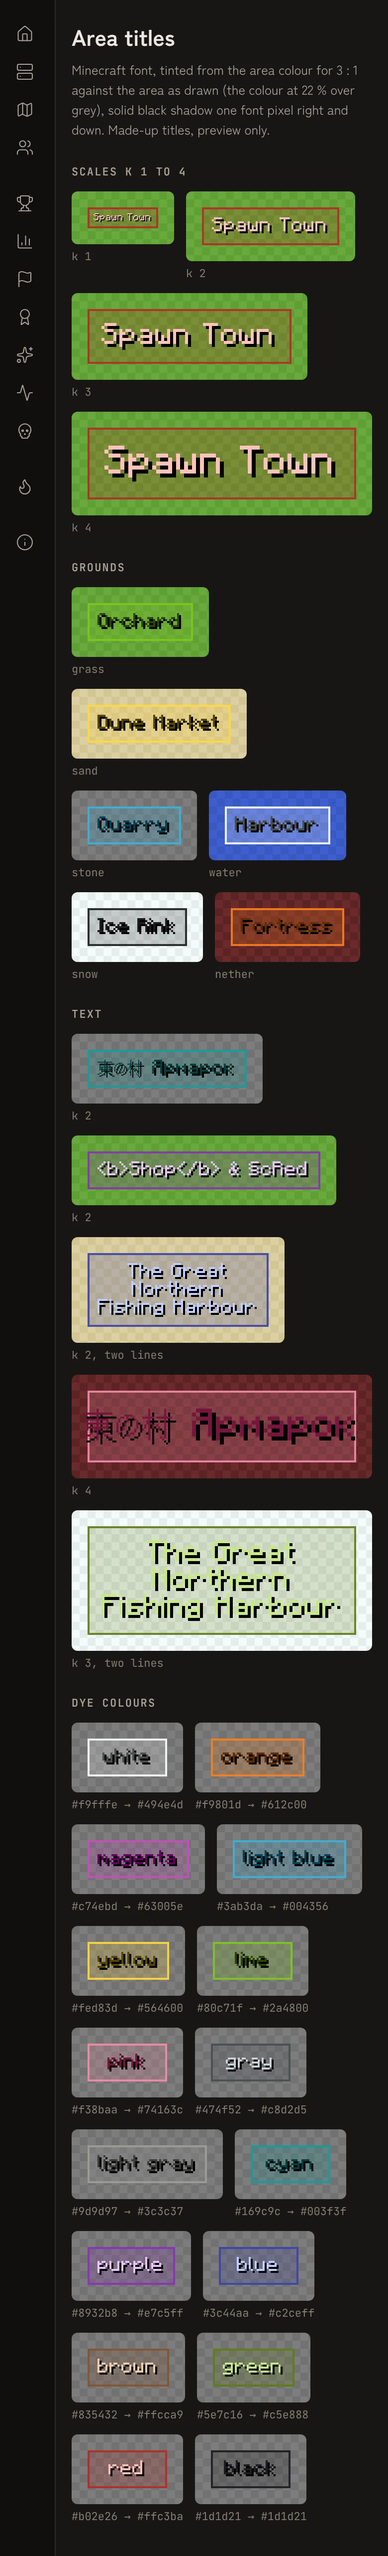
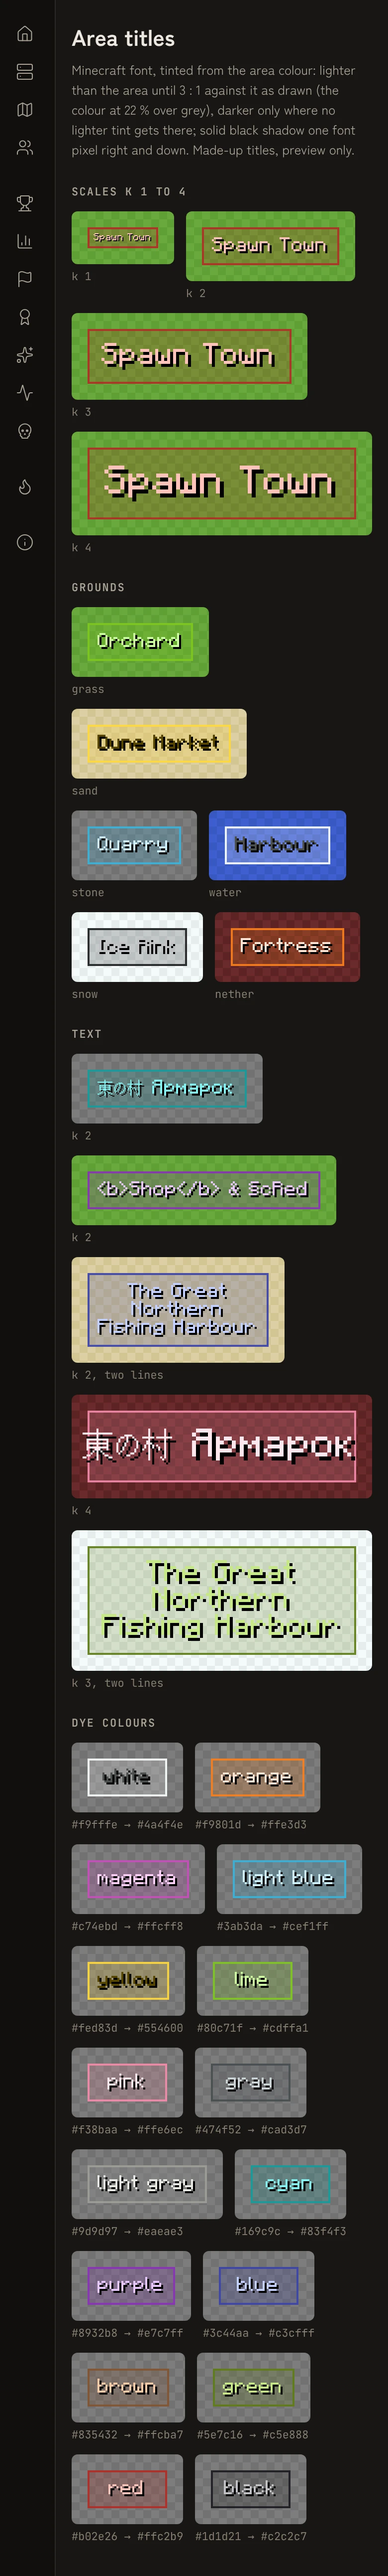
FMK-1: label tint searches lighter first for every colour
Lighter than the area as drawn first; darker only when no lighter tint
reaches 3 : 1 (markers coordinator's review). Table tests, preview caption
and screenshots updated.

Claude-Session: https://claude.ai/code/session_01VkbqotGbnmKFi6ryquUBuy

Changed region(s): [[0.1846, 0.0312, 0.9538, 0.9672], [0.0308, 0.0936, 0.0923, 0.156], [0.0308, 0.1872, 0.0923, 0.2184]]

diff --git a/tests/map-labels.test.ts b/tests/map-labels.test.ts
@@ -8,28 +8,28 @@ import { textWidth } from "#lib/onesoul/book/layout.ts";
 
 // [name, area colour, title colour]; the 16 dyes are Minecraft's dye diffuse colours (cakeutils MAPD-49)
 const TABLE: [string, string, string][] = [
-  ["pure_red", "#ff0000", "#5c0000"],
-  ["navy", "#000080", "#9bbcff"],
+  ["pure_red", "#ff0000", "#ffbeb3"],
+  ["navy", "#000080", "#9cbdff"],
   ["pure_yellow", "#ffff00", "#4f4f00"],
   ["pure_white", "#ffffff", "#4e4e4e"],
-  ["pure_black", "#000000", "#0b0b0b"],
+  ["pure_black", "#000000", "#bababa"],
   ["mid_grey", "#808080", "#e1e1e1"],
-  ["white", "#f9fffe", "#494e4d"],
-  ["orange", "#f9801d", "#612c00"],
-  ["magenta", "#c74ebd", "#63005e"],
-  ["light_blue", "#3ab3da", "#004356"],
-  ["yellow", "#fed83d", "#564600"],
-  ["lime", "#80c71f", "#2a4800"],
-  ["pink", "#f38baa", "#74163c"],
-  ["gray", "#474f52", "#c8d2d5"],
-  ["light_gray", "#9d9d97", "#3c3c37"],
-  ["cyan", "#169c9c", "#003f3f"],
-  ["purple", "#8932b8", "#e7c5ff"],
-  ["blue", "#3c44aa", "#c2ceff"],
-  ["brown", "#835432", "#ffcca9"],
+  ["white", "#f9fffe", "#4a4f4e"],
+  ["orange", "#f9801d", "#ffe3d3"],
+  ["magenta", "#c74ebd", "#ffcff8"],
+  ["light_blue", "#3ab3da", "#cef1ff"],
+  ["yellow", "#fed83d", "#554600"],
+  ["lime", "#80c71f", "#cdffa1"],
+  ["pink", "#f38baa", "#ffe6ec"],
+  ["gray", "#474f52", "#cad3d7"],
+  ["light_gray", "#9d9d97", "#eaeae3"],
+  ["cyan", "#169c9c", "#83f4f3"],
+  ["purple", "#8932b8", "#e7c7ff"],
+  ["blue", "#3c44aa", "#c3cfff"],
+  ["brown", "#835432", "#ffcba7"],
   ["green", "#5e7c16", "#c5e888"],
-  ["red", "#b02e26", "#ffc3ba"],
-  ["black", "#1d1d21", "#1d1d21"],
+  ["red", "#b02e26", "#ffc2b9"],
+  ["black", "#1d1d21", "#c2c2c7"],
 ];
 
 describe("labelTint (§5.3)", () => {
@@ -56,9 +56,16 @@ describe("labelTint (§5.3)", () => {
       expect(d).toBeLessThan(0.12);
     }
   });
-  test("dark colours lighten first, light ones darken first", () => {
-    expect(toOklch(parseHex(labelTint("#000080").color)!).l).toBeGreaterThan(toOklch([0, 0, 128]).l);
-    expect(toOklch(parseHex(labelTint("#fed83d").color)!).l).toBeLessThan(toOklch(parseHex("#fed83d")!).l);
+  test("lighter first for every colour, lighter than the area as drawn; darker only when that cannot reach the target", () => {
+    for (const area of ["#000080", "#fed83d", "#f38baa", "#1d1d21", "#80c71f", "#3ab3da"]) {
+      const t = labelTint(area);
+      const lighter = toOklch(parseHex(t.color)!).l > toOklch(parseHex(t.ground)!).l;
+      // darker only for yellow, whose ground no lighter title can reach 3 : 1 on
+      expect(lighter).toBe(area !== "#fed83d");
+    }
+    const y = parseHex("#fed83d")!;
+    const top = fromOklch({ ...toOklch(y), l: L_MAX }).map(Math.round) as [number, number, number];
+    expect(contrast(top, areaGround(y))).toBeLessThan(LABEL_CONTRAST);
   });
   test("the area as drawn is the colour at 22 % over grey", () => {
     expect(areaGround([255, 0, 0])).toEqual([156, 100, 100]);

diff --git a/src/lib/map/markers/labelColor.ts b/src/lib/map/markers/labelColor.ts
@@ -1,5 +1,5 @@
-// The colour of an area's title (brief §5.3): the area colour's hue and chroma in OKLCH, its lightness moved
-// until the text reaches LABEL_CONTRAST against the area as the map draws it (the colour at AREA_FILL_OPACITY
+// The colour of an area's title (brief §5.3): the area colour's hue and chroma in OKLCH, its lightness raised (or,
+// when no lighter value can, lowered) until the text reaches LABEL_CONTRAST against the area as the map draws it (the colour at AREA_FILL_OPACITY
 // over a neutral grey that stands in for terrain). Pure: runs on the server, in the browser and in bun:test.
 
 /** Fill opacity of an area on the map (brief §5.2); FMK-2 draws the polygon with it. */
@@ -15,8 +15,6 @@ export const LABEL_CONTRAST = 3;
 /** The lightness range the search moves in. */
 export const L_MAX = 0.97;
 export const L_MIN = 0.15;
-/** At or below this lightness the search lightens first, above it darkens first. */
-export const L_SPLIT = 0.6;
 
 export type Rgb = [r: number, g: number, b: number]; // 0..255
 export type LabelTint = { color: string; contrast: number; l: number; ground: string };
@@ -106,16 +104,21 @@ export function labelTint(hex: string, target: number = LABEL_CONTRAST): LabelTi
     const c = fromOklch({ ...o, l }).map(Math.round) as Rgb;
     return { c, k: contrast(c, ground), l };
   };
+  // "lighter" means lighter than the area as drawn, not only than the colour itself: a near-black area already
+  // passes at its own lightness, and that title would vanish into its shadow
+  const gl = toOklch(ground).l;
   const walk = (dir: 1 | -1) => {
     const end = dir > 0 ? L_MAX : L_MIN;
-    for (let l = Math.min(L_MAX, Math.max(L_MIN, o.l)); dir > 0 ? l <= end + 1e-9 : l >= end - 1e-9; l += dir * STEP) {
+    const from = dir > 0 ? Math.max(o.l, gl) : Math.min(o.l, gl);
+    for (let l = Math.min(L_MAX, Math.max(L_MIN, from)); dir > 0 ? l <= end + 1e-9 : l >= end - 1e-9; l += dir * STEP) {
       const r = at(l);
       if (r.k >= target) return r;
     }
     return null;
   };
-  const first: 1 | -1 = o.l <= L_SPLIT ? 1 : -1;
-  let hit = walk(first) ?? walk(first > 0 ? -1 : 1);
+  // lighter first for every colour (markers coordinator, 16 Nov 2026: light text over a black shadow is the
+  // Minecraft look; dark titles merge into their shadow); darker only when lightening cannot reach the target
+  let hit = walk(1) ?? walk(-1);
   if (!hit) {
     const up = at(L_MAX);
     const down = at(L_MIN);

diff --git a/src/routes/design/map/LabelPreview.svelte b/src/routes/design/map/LabelPreview.svelte
@@ -66,7 +66,7 @@
 <section class="mk-preview" aria-labelledby="mk-preview-h">
   <h2 id="mk-preview-h" class="t-heading">Area titles</h2>
   <p class="t-small mk-note">
-    Minecraft font, tinted from the area colour for {LABEL_CONTRAST} : 1 against the area as drawn (the colour at {AREA_FILL_OPACITY * 100} % over grey),
+    Minecraft font, tinted from the area colour: lighter than the area until {LABEL_CONTRAST} : 1 against it as drawn (the colour at {AREA_FILL_OPACITY * 100} % over grey), darker only where no lighter tint gets there;
     solid black shadow one font pixel right and down. Made-up titles, preview only.
   </p>
   <h3 class="t-kicker">Scales k 1 to 4</h3>
